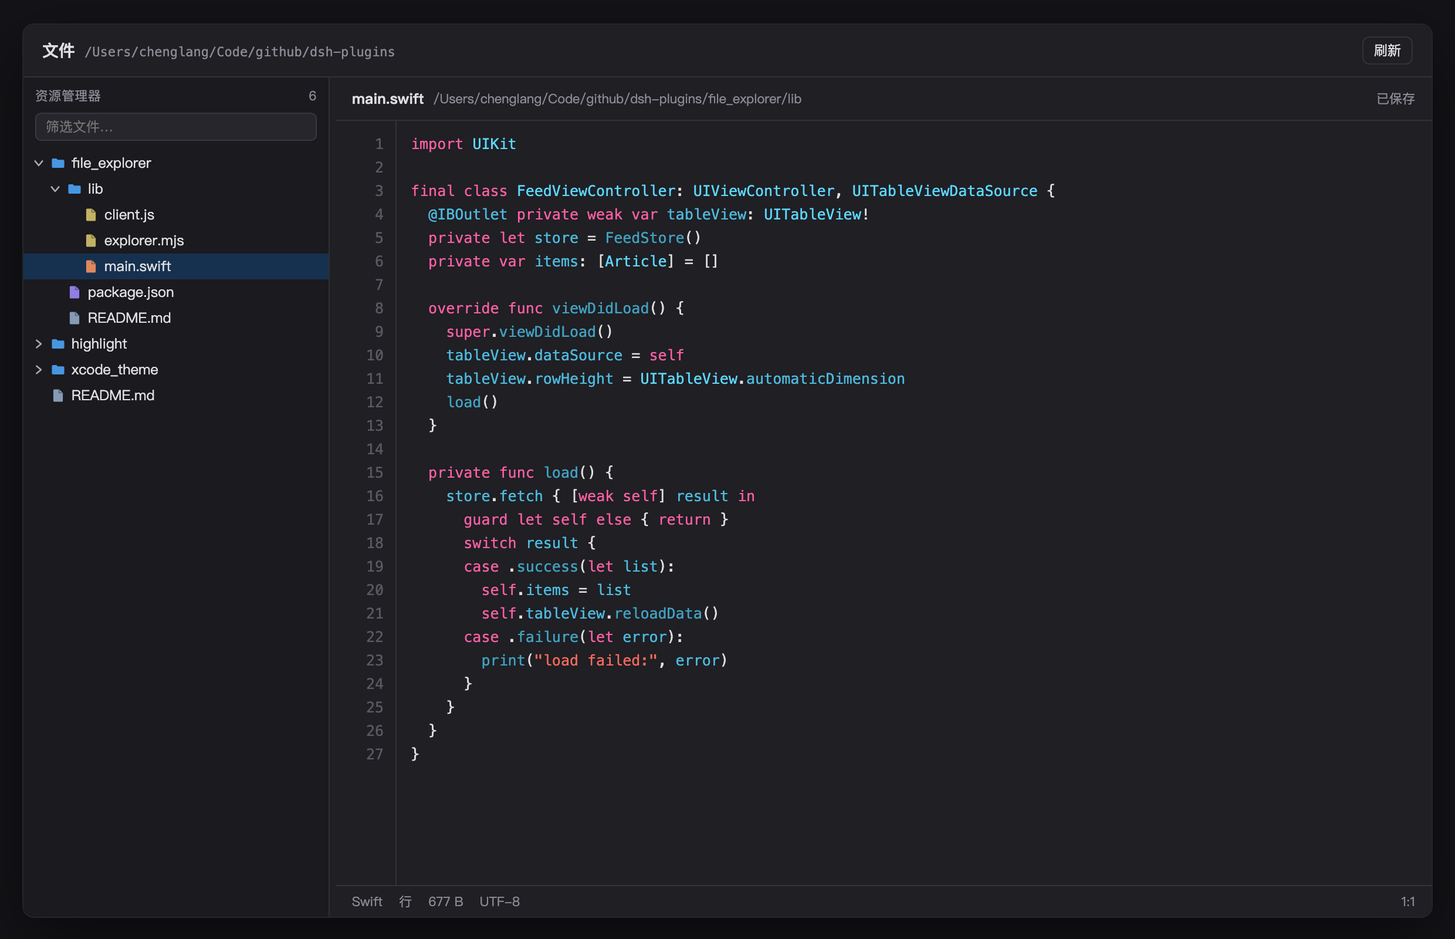
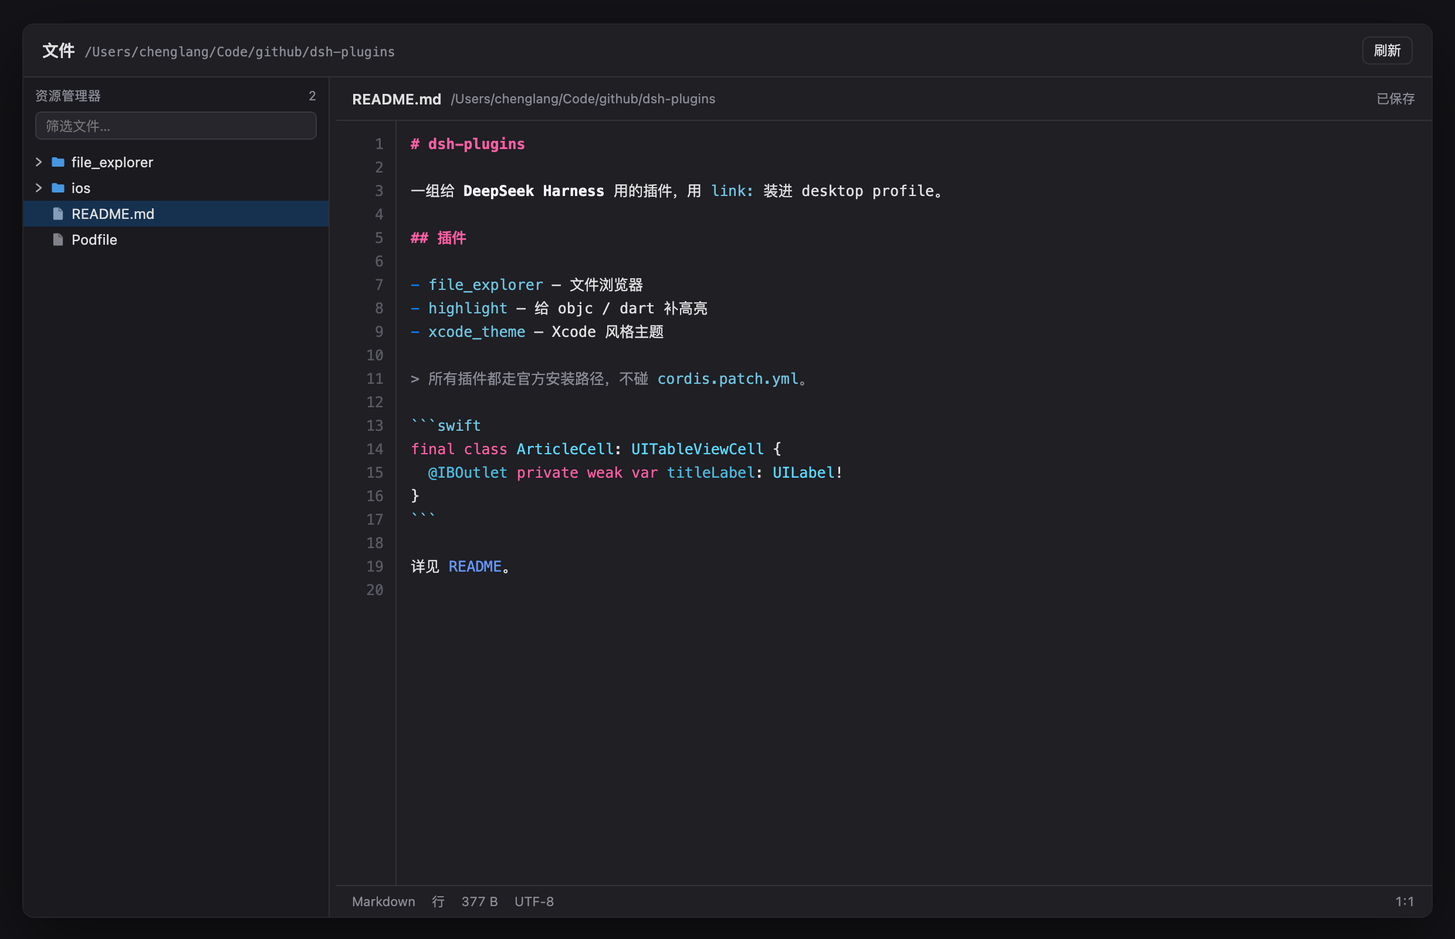
file_explorer: 字体跟随 dsh 设置，补齐 md/ruby 等语言高亮，筛选改为递归搜索
- 字体全部改用 --ds-font-family-code / --dsw-font-family 变量，跟 dsh-font 的设置联动
- 新增 markdown 渲染（标题、列表、引用、围栏代码、行内代码、链接、粗斜体）
- 语言表补 ruby（Podfile/podspec/Fastfile）、cs/lua/scala/r/groovy、shell 系；
  扩展名缺失时按内容猜（shebang、@interface、Pod::Spec、package+func 等）
- 筛选改成宿主递归 search，折叠目录里的文件也能搜到，结果右侧显示所在目录
- 版本 1.1.0

diff --git a/file_explorer/lib/client.js b/file_explorer/lib/client.js
@@ -48,6 +48,8 @@ window.__ModuleLoader__.load({
       readOnly: '只读',
       line: '行 {n}',
       filterEmpty: '没有匹配的文件',
+      searchFailed: '搜索失败',
+      searching: '搜索中…',
       stale: '文件已在磁盘上被修改',
       openFailed: '打不开这个文件',
       listFailed: '读不出这个目录',
@@ -79,6 +81,8 @@ window.__ModuleLoader__.load({
       readOnly: 'read only',
       line: 'Line {n}',
       filterEmpty: 'No matching files',
+      searchFailed: 'Search failed',
+      searching: 'Searching…',
       stale: 'The file changed on disk',
       openFailed: 'Could not open this file',
       listFailed: 'Could not list this folder',
@@ -122,6 +126,11 @@ window.__ModuleLoader__.load({
       php: ['abstract and array as break callable case catch class clone const continue declare default do echo else elseif empty enddeclare endfor endforeach endif endswitch endwhile extends final finally fn for foreach function global goto if implements include include_once instanceof insteadof interface isset list match namespace new or print private protected public readonly require require_once return static switch throw trait try unset use var while xor yield true false null', 'int float string bool array object iterable void mixed never', '//', '"', false],
       xml: ['', '', '', '"', false],
       proto: ['syntax package import message enum service rpc returns repeated optional required string int32 int64 uint32 uint64 bool bytes double float map oneof reserved', 'string int32 int64 bool bytes double float', '//', '"', false],
+      cs: ['abstract as base bool break byte case catch char checked class const continue decimal default delegate do double else enum event explicit extern false finally fixed float for foreach goto if implicit in int interface internal is lock long namespace new null object operator out override params private protected public readonly ref return sbyte sealed short sizeof stackalloc static string struct switch this throw true try typeof uint ulong unchecked unsafe ushort using virtual void volatile while var record init', 'String Int32 Int64 Double Boolean Object List Dictionary Task Action Func', '//', '"', false],
+      lua: ['and break do else elseif end false for function goto if in local nil not or repeat return then true until while', 'string number boolean table', '--', "'\"", false],
+      scala: ['abstract case catch class def do else extends false final finally for forSome if implicit import lazy match new null object override package private protected return sealed super this throw trait try true type val var while with yield', 'String Int Long Double Boolean Any List Seq Map Set Option Either Future', '//', '"', false],
+      r: ['break else for function if in next repeat return while TRUE FALSE NULL Inf NaN NA', 'character numeric integer logical list data.frame matrix vector factor', '#', "'\"", false],
+      groovy: ['abstract as assert break case catch class const continue def default do else enum extends final finally for goto if implements import in instanceof interface native new package private protected public return static strictfp super switch synchronized this throw throws trait transient try void volatile while true false null it', 'String Integer Long Double Float Boolean List Map Set Closure', '//', '"', false],
     }
 
     const EXT_LANG = {
@@ -140,7 +149,55 @@ window.__ModuleLoader__.load({
       html: 'html', htm: 'html', vue: 'html', svelte: 'html', xml: 'xml', svg: 'xml', plist: 'xml',
       md: 'md', markdown: 'md', mdx: 'md',
       sql: 'sql', toml: 'toml', ini: 'toml', conf: 'toml',
-      rb: 'rb', php: 'php', proto: 'proto',
+      rb: 'rb', rake: 'rb', gemspec: 'rb', podspec: 'rb', ru: 'rb',
+      php: 'php', proto: 'proto',
+      cs: 'cs', lua: 'lua', scala: 'scala', sc: 'scala', r: 'r',
+      groovy: 'groovy', gradle: 'groovy', gvy: 'groovy',
+      mk: 'sh', make: 'sh', cmake: 'sh', dockerfile: 'sh',
+      xcconfig: 'toml', entitlements: 'xml', storyboard: 'xml', xib: 'xml',
+      lock: 'yaml', mdx: 'md',
+    }
+
+    /** 没有扩展名、或扩展名不可靠的文件，按文件名直接判定语言。 */
+    const NAME_LANG = {
+      podfile: 'rb', 'podfile.lock': 'yaml', gemfile: 'rb', 'gemfile.lock': 'rb',
+      rakefile: 'rb', fastfile: 'rb', appfile: 'rb', matchfile: 'rb', dangerfile: 'rb',
+      brewfile: 'rb', vagrantfile: 'rb', guardfile: 'rb', capfile: 'rb', thorfile: 'rb',
+      podspec: 'rb',
+      dockerfile: 'sh', makefile: 'sh', 'cmakelists.txt': 'sh', 'gnumakefile': 'sh',
+      '.gitignore': 'sh', '.gitattributes': 'sh', '.npmignore': 'sh', '.dockerignore': 'sh',
+      '.env': 'toml', '.editorconfig': 'toml', '.babelrc': 'json', '.eslintrc': 'json',
+      'package-lock.json': 'json', 'tsconfig.json': 'json',
+      'cartfile': 'rb', 'cartfile.private': 'rb',
+    }
+
+    /** 扩展名缺失或陌生时，用内容猜语言。返回 '' 表示没把握。 */
+    function sniffLang(text) {
+      const head = text.slice(0, 4000)
+      const shebang = /^\s*#!\s*\S*?(python[\d.]*|node|bun|bash|zsh|sh|ruby|perl|php)\b/.exec(head)
+      if (shebang) {
+        const name = shebang[1]
+        if (name.startsWith('python')) return 'py'
+        if (name === 'node' || name === 'bun') return 'js'
+        if (name === 'ruby') return 'rb'
+        if (name === 'php') return 'php'
+        if (name === 'perl') return 'php'
+        return 'sh'
+      }
+      if (/^\s*<\?xml\b/i.test(head)) return 'xml'
+      if (/^\s*<!doctype html/i.test(head) || /<html[\s>]/i.test(head)) return 'html'
+      if (/Pod::Spec|\.podspec|platform\s+:(ios|osx|tvos|watchos)|use_frameworks!|source\s+'https?:\/\/github\.com\/CocoaPods/i.test(head)) return 'rb'
+      if (/@interface\s+\w+|#import\s*[<"]|@implementation\s+\w+|\bNS[A-Z]\w*\s*\*/.test(head)) return 'objc'
+      if (/\bimport\s+(UIKit|Foundation|SwiftUI|AppKit)\b|\bfunc\s+\w+\s*\(|\blet\s+\w+\s*:/.test(head)) return 'swift'
+      if (/^\s*package\s+\w+\s*$/m.test(head) && /\bfunc\s+\w+\s*\(/.test(head)) return 'go'
+      if (/\bfn\s+main\s*\(|\buse\s+std::/.test(head)) return 'rust'
+      if (/^\s*def\s+\w+\s*\(.*\)\s*:\s*$/m.test(head) || /^\s*(from\s+\S+\s+)?import\s+[\w.]+\s*$/m.test(head)) return 'py'
+      if (/^\s*(---\s*$)[\s\S]*^[\w.-]+\s*:/m.test(head)) return 'yaml'
+      if (/^\s*[{[]\s*"[^"]+"\s*:/.test(head)) return 'json'
+      if (/\b(SELECT|INSERT\s+INTO|CREATE\s+TABLE|UPDATE\s+\w+\s+SET)\b/i.test(head)) return 'sql'
+      if (/<([a-z][\w-]*)(\s+[\w:-]+=("[^"]*"|'[^']*'))*\s*\/?>/i.test(head)) return 'html'
+      if (/^\s*#{1,6}\s+\S/m.test(head) && /\n\s*[-*]\s+\S/.test(head)) return 'md'
+      return ''
     }
 
     const IMAGE_EXT = new Set(['png', 'jpg', 'jpeg', 'gif', 'webp', 'bmp', 'ico', 'avif'])
@@ -180,7 +237,10 @@ window.__ModuleLoader__.load({
     const dirName = (path) => path.slice(0, path.lastIndexOf('/'))
     const joinPath = (dir, name) => (dir.endsWith('/') ? `${dir}${name}` : `${dir}/${name}`)
 
-    const langOf = (path) => EXT_LANG[extOf(path)] || 'txt'
+    const langOf = (path, text) => {
+      const name = baseName(path).toLowerCase()
+      return NAME_LANG[name] || EXT_LANG[extOf(path)] || (text ? sniffLang(text) : '') || 'txt'
+    }
 
     const formatBytes = (bytes) => {
       if (typeof bytes !== 'number' || !Number.isFinite(bytes)) return ''
@@ -207,9 +267,103 @@ window.__ModuleLoader__.load({
      * @param lang - 语言 id。
      * @returns 转义过、带 span 的 HTML 字符串。
      */
+    /** 行内 markdown：行内代码 / 粗体 / 斜体 / 链接。 */
+    function inlineMd(line) {
+      const out = []
+      let acc = ''
+      let i = 0
+      const flush = () => {
+        if (acc) {
+          out.push(escapeHtml(acc))
+          acc = ''
+        }
+      }
+      while (i < line.length) {
+        const rest = line.slice(i)
+        let m
+        if (rest[0] === '`' && (m = /^`+([^`]+)`+/.exec(rest))) {
+          flush()
+          out.push(`<span class="fx-md-code">${escapeHtml(m[1])}</span>`)
+          i += m[0].length
+          continue
+        }
+        if ((m = /^\*\*([^*]+)\*\*/.exec(rest)) || (m = /^__([^_]+)__/.exec(rest))) {
+          flush()
+          out.push(`<span class="fx-md-strong">${escapeHtml(m[1])}</span>`)
+          i += m[0].length
+          continue
+        }
+        if ((m = /^\*([^*\s][^*]*)\*/.exec(rest)) || (m = /^_([^_\s][^_]*)_/.exec(rest))) {
+          flush()
+          out.push(`<span class="fx-md-em">${escapeHtml(m[1])}</span>`)
+          i += m[0].length
+          continue
+        }
+        if ((m = /^!?\[([^\]]*)\]\(([^)]*)\)/.exec(rest))) {
+          flush()
+          out.push(`<span class="fx-md-link">${escapeHtml(m[1] || m[2])}</span>`)
+          i += m[0].length
+          continue
+        }
+        if ((m = /^<(https?:\/\/[^>]+)>/.exec(rest))) {
+          flush()
+          out.push(`<span class="fx-md-link">${escapeHtml(m[1])}</span>`)
+          i += m[0].length
+          continue
+        }
+        acc += line[i]
+        i += 1
+      }
+      flush()
+      return out.join('')
+    }
+
+    /** markdown：按行处理围栏代码块、标题、引用、列表、分割线，其余走行内规则。 */
+    function highlightMarkdown(text) {
+      const lines = text.split('\n')
+      const out = []
+      let fence = null
+      for (const line of lines) {
+        const open = /^\s{0,3}(`{3,}|~{3,})/.exec(line)
+        if (fence) {
+          if (open && line.trim().startsWith(fence.mark)) {
+            fence = null
+            out.push(`<span class="fx-md-code">${escapeHtml(line)}</span>`)
+          } else if (fence.lang && LANG[fence.lang]) {
+            out.push(highlight(line, fence.lang))
+          } else {
+            out.push(`<span class="fx-md-code">${escapeHtml(line)}</span>`)
+          }
+          continue
+        }
+        if (open) {
+          const info = line.trim().slice(open[1].length).trim().split(/\s+/)[0]
+          const alias = info ? EXT_LANG[info.toLowerCase()] || (LANG[info.toLowerCase()] ? info.toLowerCase() : '') : ''
+          fence = { mark: open[1], lang: alias }
+          out.push(`<span class="fx-md-code">${escapeHtml(line)}</span>`)
+          continue
+        }
+        if (/^\s{0,3}#{1,6}\s/.test(line)) {
+          out.push(`<span class="fx-md-h">${inlineMd(line)}</span>`)
+        } else if (/^\s{0,3}([-*_])(\s*\1){2,}\s*$/.test(line)) {
+          out.push(`<span class="fx-md-hr">${escapeHtml(line)}</span>`)
+        } else if (/^\s{0,3}>/.test(line)) {
+          out.push(`<span class="fx-md-quote">${inlineMd(line)}</span>`)
+        } else if (/^\s*([-*+]|\d+[.)])\s/.test(line)) {
+          const marker = /^\s*([-*+]|\d+[.)])\s/.exec(line)
+          const head = line.slice(0, line.search(/\S/) + marker[1].length)
+          out.push(`<span class="fx-md-list">${escapeHtml(head)}</span>${inlineMd(line.slice(head.length))}`)
+        } else {
+          out.push(inlineMd(line))
+        }
+      }
+      return out.join('\n')
+    }
+
     function highlight(text, lang) {
       const cfg = LANG[lang]
-      if (!cfg || lang === 'txt' || lang === 'md') return escapeHtml(text)
+      if (lang === 'md') return highlightMarkdown(text)
+      if (!cfg || lang === 'txt') return escapeHtml(text)
       const out = []
       let i = 0
       let plain = ''
@@ -314,10 +468,10 @@ window.__ModuleLoader__.load({
     /* ------------------------------------------------------------------ */
 
     const CSS = [
-      '.fx-root{display:flex;flex-direction:column;height:100%;min-height:420px;box-sizing:border-box;color:var(--dsw-alias-label-primary,#e6e6ea);background:var(--dsw-alias-bg-base,#1f1f24)}',
+      '.fx-root{display:flex;flex-direction:column;height:100%;min-height:420px;box-sizing:border-box;color:var(--dsw-alias-label-primary,#e6e6ea);background:var(--dsw-alias-bg-base,#1f1f24);font-family:var(--dsw-font-family,ui-sans-serif,system-ui,-apple-system,"PingFang SC","Microsoft YaHei",sans-serif)}',
       '.fx-head{display:flex;align-items:center;gap:10px;flex:none;padding:10px 16px;border-bottom:1px solid var(--dsw-alias-border-l1,rgba(255,255,255,.08))}',
       '.fx-title{display:flex;align-items:baseline;gap:8px;font-size:14px;font-weight:600}',
-      '.fx-rootPath{font-size:11px;font-weight:400;color:var(--dsw-alias-label-secondary,#8b8b95);font-family:ui-monospace,SFMono-Regular,Menlo,monospace;max-width:52vw;overflow:hidden;text-overflow:ellipsis;white-space:nowrap}',
+      '.fx-rootPath{font-size:11px;font-weight:400;color:var(--dsw-alias-label-secondary,#8b8b95);font-family:var(--ds-font-family-code,ui-monospace,SFMono-Regular,Menlo,monospace);max-width:52vw;overflow:hidden;text-overflow:ellipsis;white-space:nowrap}',
       '.fx-headActions{margin-left:auto;display:flex;align-items:center;gap:8px}',
       '.fx-btn{display:inline-flex;align-items:center;gap:5px;height:24px;padding:0 9px;border-radius:6px;border:1px solid var(--dsw-alias-border-l1,rgba(255,255,255,.12));background:transparent;color:inherit;font:inherit;font-size:11.5px;cursor:pointer}',
       '.fx-btn:hover{background:var(--dsw-alias-bg-layer-2,rgba(255,255,255,.06))}',
@@ -335,6 +489,7 @@ window.__ModuleLoader__.load({
       '.fx-row:hover{background:var(--dsw-alias-bg-layer-2,rgba(255,255,255,.05))}',
       '.fx-row.sel{background:var(--dsw-alias-bg-selection,rgba(10,132,255,.22))}',
       '.fx-row .fx-name{overflow:hidden;text-overflow:ellipsis}',
+      '.fx-rowPath{margin-left:auto;padding-left:10px;font-size:10.5px;color:var(--dsw-alias-label-tertiary,#5a5a63);overflow:hidden;text-overflow:ellipsis;white-space:nowrap;direction:rtl}',
       '.fx-row.dir .fx-name{color:var(--dsw-alias-label-primary,#e6e6ea)}',
       '.fx-chev{display:inline-flex;align-items:center;justify-content:center;width:10px;flex:none;opacity:.75;transform:rotate(0deg);transition:transform .12s ease}',
       '.fx-chev.open{transform:rotate(90deg)}',
@@ -349,9 +504,9 @@ window.__ModuleLoader__.load({
       '.fx-fileActions{margin-left:auto;display:flex;align-items:center;gap:8px;flex:none}',
       '.fx-editorWrap{flex:1;min-height:0;display:flex;position:relative;overflow:hidden}',
       '.fx-gutter{flex:none;width:52px;overflow:hidden;padding:10px 0;box-sizing:border-box;border-right:1px solid var(--dsw-alias-border-l1,rgba(255,255,255,.05));background:var(--dsw-alias-bg-base,#1f1f24)}',
-      '.fx-gutterInner{white-space:pre;font-family:ui-monospace,SFMono-Regular,Menlo,monospace;font-size:12.5px;line-height:20px;text-align:right;color:var(--dsw-alias-label-tertiary,#5a5a63);padding-right:10px;will-change:transform}',
+      '.fx-gutterInner{white-space:pre;font-family:var(--ds-font-family-code,ui-monospace,SFMono-Regular,Menlo,monospace);font-size:12.5px;line-height:20px;text-align:right;color:var(--dsw-alias-label-tertiary,#5a5a63);padding-right:10px;will-change:transform}',
       '.fx-code{position:relative;flex:1;min-width:0;overflow:hidden}',
-      '.fx-hl,.fx-input{margin:0;padding:10px 16px 10px 12px;box-sizing:border-box;font-family:ui-monospace,SFMono-Regular,Menlo,monospace;font-size:12.5px;line-height:20px;letter-spacing:0;tab-size:2;white-space:pre;border:0;outline:none}',
+      '.fx-hl,.fx-input{margin:0;padding:10px 16px 10px 12px;box-sizing:border-box;font-family:var(--ds-font-family-code,ui-monospace,SFMono-Regular,Menlo,monospace);font-size:12.5px;line-height:20px;letter-spacing:0;tab-size:2;white-space:pre;border:0;outline:none}',
       '.fx-hl{position:absolute;inset:0;overflow:hidden;pointer-events:none;color:var(--dsw-alias-label-primary,#dfe0e2);word-wrap:normal}',
       '.fx-input{position:absolute;inset:0;width:100%;height:100%;overflow:auto;resize:none;background:transparent;color:transparent;caret-color:var(--dsw-alias-label-primary,#e6e6ea);-webkit-text-fill-color:transparent}',
       '.fx-input::selection{background:rgba(10,132,255,.28);-webkit-text-fill-color:transparent}',
@@ -366,6 +521,14 @@ window.__ModuleLoader__.load({
       '.fx-kw{color:var(--shiki-token-keyword,#fc5fa3)}',
       '.fx-str{color:var(--shiki-token-string,#fc6a5d)}',
       '.fx-num{color:var(--shiki-token-constant,#d0bf69)}',
+      '.fx-md-h{color:var(--dsw-alias-markdown-heading,#fc5fa3);font-weight:600}',
+      '.fx-md-code{color:var(--dsw-alias-markdown-code,#6fc3de)}',
+      '.fx-md-strong{color:var(--dsw-alias-markdown-strong,#f2f3f7);font-weight:600}',
+      '.fx-md-em{color:var(--dsw-alias-markdown-emph,#dfdfe0);font-style:italic}',
+      '.fx-md-link{color:var(--dsw-alias-markdown-link,#6699ff)}',
+      '.fx-md-quote{color:var(--dsw-alias-markdown-block-quote,#8b8b95)}',
+      '.fx-md-list{color:var(--dsw-alias-brand-primary,#0a84ff)}',
+      '.fx-md-hr{color:var(--dsw-alias-border-l2,rgba(255,255,255,.28))}',
       '.fx-cm{color:var(--shiki-token-comment,#7f8c98)}',
       '.fx-ty{color:var(--shiki-token-parameter,#5dd8ff)}',
       '.fx-fn{color:var(--shiki-token-function,#41a1c0)}',
@@ -581,6 +744,13 @@ window.__ModuleLoader__.load({
                       h('span', { className: `fx-chev${row.type === 'directory' && row.open ? ' open' : ''}` }, row.type === 'directory' ? h(Chevron, { open: row.open }) : null),
                       h('span', { className: 'fx-ico' }, row.type === 'directory' ? h(FolderGlyph, { color: '#4a9dec' }) : h(FileGlyph, { name: row.name })),
                       h('span', { className: 'fx-name' }, row.name),
+                      row.flat
+                        ? h(
+                            'span',
+                            { className: 'fx-rowPath' },
+                            row.path.slice(state.root.length + 1).split('/').slice(0, -1).join('/'),
+                          )
+                        : null,
                     ),
                   ),
             ),
@@ -635,7 +805,7 @@ window.__ModuleLoader__.load({
             h(
               'div',
               { className: 'fx-status' },
-              h('span', null, doc && doc.kind === 'text' ? (LANG_LABEL[langOf(doc.path)] || extOf(doc.path) || 'text') : ''),
+              h('span', null, doc && doc.kind === 'text' ? (LANG_LABEL[doc.lang] || extOf(doc.path) || 'text') : ''),
               doc && doc.kind === 'text' ? h('span', null, t('lines', { count: doc.lines })) : null,
               doc && doc.size ? h('span', null, formatBytes(doc.size)) : null,
               doc && doc.kind === 'text' ? h('span', null, 'UTF-8') : null,
@@ -652,11 +822,11 @@ window.__ModuleLoader__.load({
       const taRef = useRef(null)
       const hlRef = useRef(null)
       const gutterRef = useRef(null)
-      const [html, setHtml] = useState(() => highlight(doc.text, langOf(doc.path)))
+      const [html, setHtml] = useState(() => highlight(doc.text, doc.lang || langOf(doc.path, doc.text)))
 
       // 高亮跟着文本走，但打字时不要每个字符都重排整篇：60ms 去抖。
       useEffect(() => {
-        const id = window.setTimeout(() => setHtml(highlight(doc.text, langOf(doc.path))), 60)
+        const id = window.setTimeout(() => setHtml(highlight(doc.text, doc.lang || langOf(doc.path, doc.text))), 60)
         return () => window.clearTimeout(id)
       }, [doc.text, doc.path])
 
@@ -805,6 +975,8 @@ window.__ModuleLoader__.load({
       function buildRows(state) {
         const rows = []
         const needle = state.filter.trim().toLowerCase()
+        // 有筛选时用宿主返回的递归结果，不再从「已展开」的分支里凑。
+        if (needle && Array.isArray(state.found)) return state.found
         const walk = (dir, depth) => {
           for (const child of state.children[dir] || []) {
             const path = joinPath(dir, child.name)
@@ -818,6 +990,8 @@ window.__ModuleLoader__.load({
         walk(state.root, 0)
         return rows
       }
+
+      let filterTimer = null
 
       const actions = {
         async boot() {
@@ -899,6 +1073,7 @@ window.__ModuleLoader__.load({
               doc: {
                 path,
                 kind: 'text',
+                lang: langOf(path, data.text),
                 text: data.text,
                 saved: data.text,
                 version: data.version,
@@ -952,7 +1127,32 @@ window.__ModuleLoader__.load({
           return Promise.all(dirs.map((dir) => actions.loadDir(dir))).then(() => store.set((state) => ({ rows: buildRows(state) })))
         },
         setFilter(filter) {
-          store.set((state) => ({ filter, rows: buildRows({ ...state, filter }) }))
+          store.set({ filter })
+          if (filterTimer) window.clearTimeout(filterTimer)
+          const needle = filter.trim()
+          if (!needle) {
+            store.set((state) => ({ found: null, rows: buildRows(state) }))
+            return
+          }
+          filterTimer = window.setTimeout(async () => {
+            const { root } = store.get()
+            if (!root) return
+            store.set({ searching: true })
+            try {
+              const data = await api('search', { root, query: needle })
+              const found = (data.entries || []).map((entry) => ({
+                path: entry.path,
+                name: entry.name,
+                type: entry.type,
+                depth: 0,
+                open: false,
+                flat: true,
+              }))
+              store.set((state) => ({ searching: false, found, rows: state.filter.trim() ? found : buildRows(state) }))
+            } catch (error) {
+              store.set({ searching: false, error: `${translate('searchFailed')}: ${String(error && error.message)}` })
+            }
+          }, 180)
         },
         setSplit(split) {
           store.set({ split })

diff --git a/file_explorer/README.md b/file_explorer/README.md
@@ -8,6 +8,11 @@
 - 左栏：文件夹点一下只**展开 / 收起**（不改名、不删除），文件点一下打开。
 - 右栏：带**行号**和**语法高亮**的编辑器，主流代码文件都能预览；图片直接显示。
 - 文件可以**直接改**，`⌘S` / `Ctrl+S` 保存，保存时带版本校验（磁盘被别人改过会提示，不会静默覆盖）。
+- 字体跟随 dsh 的字体设置（`--ds-font-family-code` / `--dsw-font-family`），可以配 `dsh-font` 换成 SF Mono。
+- 高亮覆盖常见语言：js/ts/jsx/tsx、python、swift、objc、c/cpp、java、kotlin、dart、go、rust、
+  ruby（含 Podfile / Fastfile / Gemfile）、cs、lua、scala、r、groovy、sh、yaml、json、toml、
+  css、html/xml、sql、markdown（标题/列表/引用/围栏代码/行内代码/链接）。扩展名缺失时按内容猜（shebang、
+  `@interface`、`Pod::Spec`、`package … func` 等）。
 - 配色全部走主题变量（`--dsw-alias-*` / `--shiki-token-*`），跟聊天里的代码块、以及 Xcode 主题是同一套颜色。
 
 ## 入口
@@ -27,7 +32,7 @@
 | 点文件 | 打开预览；文本进编辑器，图片进图片视图 |
 | 输入 | 直接编辑（Tab 插入两个空格） |
 | `⌘S` / `Ctrl+S` | 保存当前文件 |
-| 顶部筛选框 | 按名字过滤当前已展开的层级 |
+| 顶部筛选框 | 按名字**递归**搜索整个工作区（结果带所在目录，点一下直接打开） |
 | 拖动树与编辑器之间的分隔条 | 调整树宽度 |
 | 顶部刷新 | 重新读取所有已展开的目录 |
 | 多工作区 | 顶部标题旁的下拉框切换 |
@@ -46,7 +51,7 @@
 file_explorer/
   package.json        bundle 形态：dsh.bundle.patch + dsh.client.platform=web
   cordis.patch.yml    把宿主半边 insert 进 profile
-  lib/explorer.mjs    宿主半边：POST /api/file-explorer（roots / list / read / image / write）
+  lib/explorer.mjs    宿主半边：POST /api/file-explorer（roots / list / read / image / write / search）
   lib/client.js       浏览器半边：槽位注册 + 文件树 + 编辑器 + 轻量分词器
   icon.svg
 ```
@@ -65,6 +70,7 @@ file_explorer/
 | `read` | `root, path` | `{ kind: 'text' \| 'binary' \| 'too-large', text?, version?, size }` |
 | `image` | `root, path` | `{ mime, base64, size }` |
 | `write` | `root, path, text, version?` | `{ version, bytes }`；版本过期返回 `stale` |
+| `search` | `root, query, limit?` | `{ entries: [{ path, rel, name, type }], truncated }`（递归，深度 ≤ 8，最多 4000 条） |
 
 ## 安装
 
@@ -76,6 +82,6 @@ dsh plugin add /Users/chenglang/Code/github/dsh-plugins/file_explorer
 
 ## 已知限制
 
-- 只读预览不跟随磁盘变化：外部改动要手动「刷新」或重新打开文件（自动监听是下一步）。
+- 预览不跟随磁盘变化：外部改动要手动「刷新」或重新打开文件（自动监听是下一步）。
 - 高亮是轻量词法分词，不做语义分析；模板字符串、正则字面量内部可能按普通文本处理。
 - 超大文件（> 2 MB）不打开，避免把编辑器卡死。
